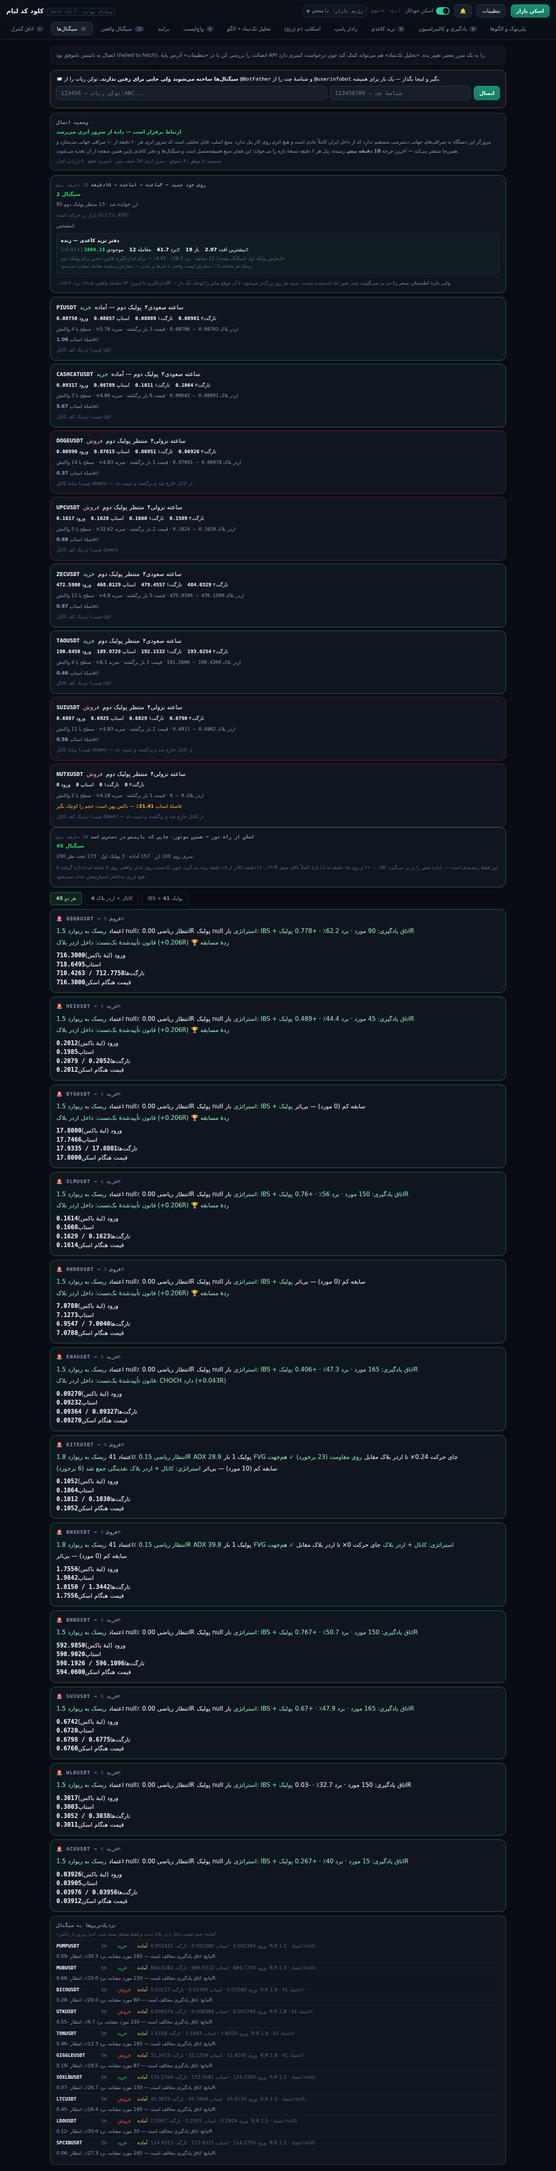
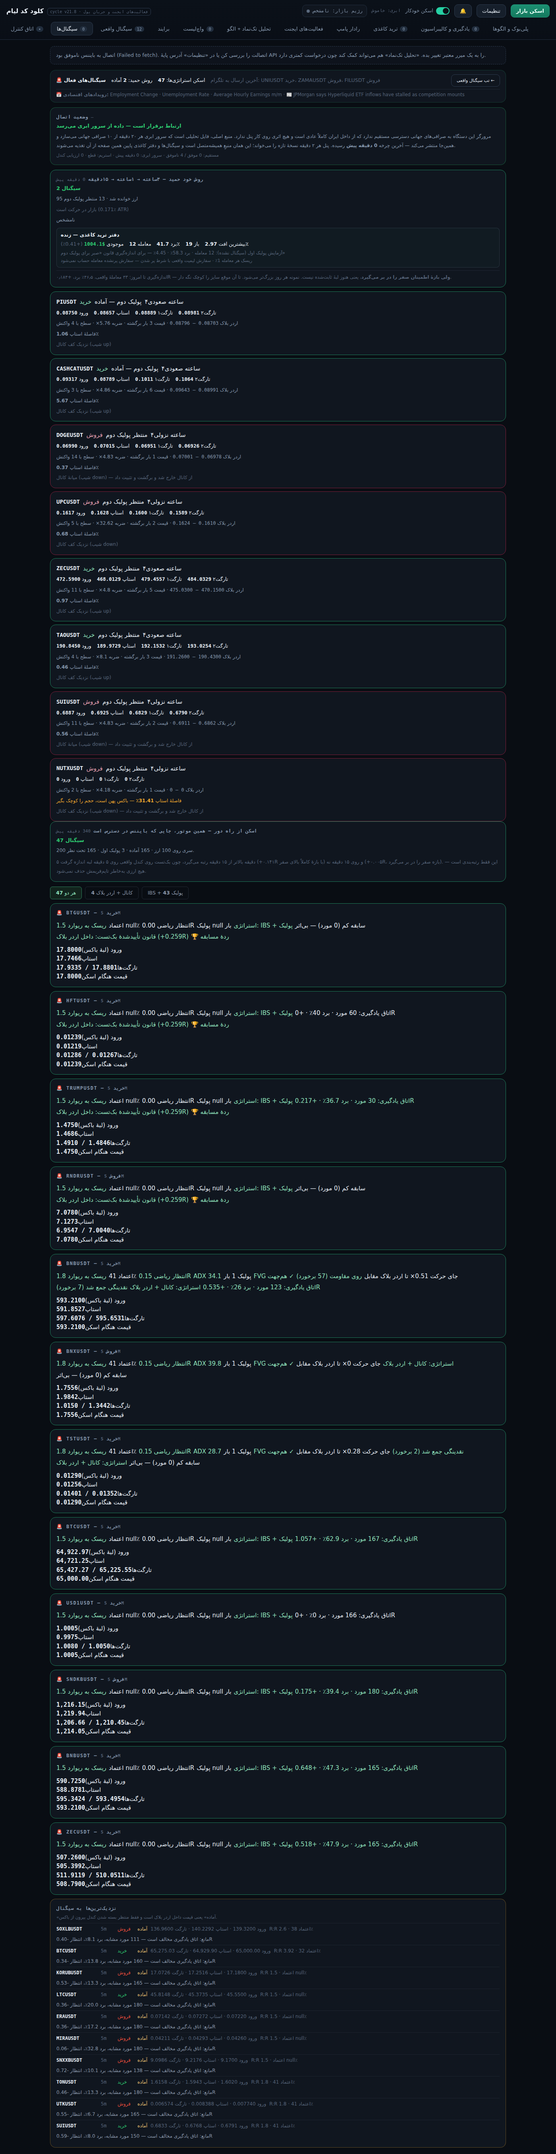
تب فعالیتهای ایجنت، ابزار ورود/خروج پول، تقویم اقتصادی دائمی، حذف فرم توکن
چهار خواستهٔ حمید (v21.8):

- فرم توکن تلگرام از صفحهٔ اول حذف شد — ربات سمت سرور ساخته شده و آن فرم
  فقط جا میگرفت. جایش نوار «سیگنالهای فعال» نشسته: تعداد آماده، آخرین
  ارسالهای تلگرام، و رویدادهای اقتصادی ۴۸ ساعت + داغترین خبر — دائمی.
- تب «اسکلپ ۱م» جایش را به «فعالیتهای ایجنت» داد: چرخهٔ سرور در هر قدم
  یک خط سادهٔ فارسی در activity مینویسد (شروع، خواندن ارزها، ستاپها،
  دفتر کاغذی، تجربهگیری، تلگرام، انتشار) و پنل همان را زنده نشان میدهد.
- ابزار جریان پول: money_flow جهش حجم یکساعته را با z-score نسبت به ۱۰۰
  کندل قبل میگیرد و در گذشتهٔ همان ارز جهشهای مشابهِ همجهت را پیدا و
  میانهٔ حرکت ۴ ساعت بعدشان را اندازه میگیرد — واکنش انتظاری از تاریخچهٔ
  خود ارز، نه حدس؛ زیر ۵ نمونه صریحاً «پیشبینی نمیکنیم». نتیجه به اتاق
  سیگنال (room_log) هم میرود.
- تجربهگیری از گذشتهٔ هر کار همان حلقهٔ یادگیری موجود است؛ حالا در تب
  فعالیتها به زبان ساده دیده میشود.

تست: selfcheck ۱۳/۱۳؛ money_flow واحد (جهش تشخیص، شمارش گذشته، سری آرام
خالی)؛ پنل ۹/۹ با فیکسچر فعال (دو ایراد قبلی مال دادهٔ حالت سکوت بود)؛
تست رندر تب ایجنت و نوار و جریان پول، صفر خطا.

Claude-Session: https://claude.ai/code/session_01Hmz5ep1FQiSRdvnpYTDsuE

diff --git a/index.html b/index.html
@@ -217,7 +217,7 @@ input.f{background:var(--panel2);border:1px solid var(--line2);border-radius:9px
 <body dir="ltr">
 <header>
   <div class="bar">
-    <div class="brand"><b>کلود کد لیام</b><span class="v" id="ver">cycle v21.7 · سیگنال نهایی</span></div>
+    <div class="brand"><b>کلود کد لیام</b><span class="v" id="ver">cycle v21.8 · فعالیتهای ایجنت و جریان پول</span></div>
     <div class="regime" id="regime"><span class="dot"></span><span id="regimeTxt">رژیم بازار: نامشخص</span></div>
     <span class="mono" id="syncPill" style="font-size:11px;color:var(--dim)">ابری: خاموش</span>
     <label class="switch" id="autoSw"><span>اسکن خودکار</span><i></i></label>
@@ -232,7 +232,7 @@ input.f{background:var(--panel2);border:1px solid var(--line2);border-radius:9px
     <button class="tab" data-t="net">برایند</button>
     <button class="tab" data-t="watch">واچلیست<span class="b" id="cWatch">0</span></button>
     <button class="tab" data-t="single">تحلیل تکنماد + الگو</button>
-    <button class="tab" data-t="scalp">اسکلپ ۱م (رنج)</button>
+    <button class="tab" data-t="agent">فعالیتهای ایجنت</button>
     <button class="tab" data-t="radar">رادار پامپ</button>
     <button class="tab" data-t="paper">ترید کاغذی<span class="b" id="cPaper">0</span></button>
     <button class="tab" data-t="calib">یادگیری و کالیبراسیون<span class="b" id="cFb">0</span></button>
@@ -274,18 +274,9 @@ input.f{background:var(--panel2);border:1px solid var(--line2);border-radius:9px
     <div id="ddOut"></div>
   </section>
 
-  <section id="view-scalp" style="display:none">
-    <div class="section-title"><span class="eyebrow">1m reverse-IBS · range scalp</span><h2>اسکلپ ۱ دقیقهای — رنجمارکت</h2></div>
-    <p class="muted" style="margin-top:-6px;max-width:760px;font-size:13.5px">
-      ستاپ: <b>اینداسمنت معتبر (سوییپ لبهٔ رنج) → CHoCH → اولین BOS همجهتِ چرخش</b>، فقط در حالت رنج و روی تکارز.
-      ضدِ سوییپ وارد میشویم و به سمت لبهٔ مقابلِ رنج هدف میگیریم. این پنل کاملاً مستقل از موتورِ قفلشده است.
-    </p>
-    <div style="display:flex;gap:8px;flex-wrap:wrap;align-items:center;margin:12px 0 14px">
-      <input class="f" id="scSym" placeholder="نماد، مثلاً BTC یا SOLUSDT" style="max-width:260px" inputmode="text" autocapitalize="characters">
-      <button class="btn primary" id="scBtn">تحلیل اسکلپ ۱م</button>
-      <span class="dim mono" id="scMeta"></span>
-    </div>
-    <div id="scOut"></div>
+  <section id="view-agent" style="display:none">
+    <div class="section-title"><span class="eyebrow">live agent activity</span><h2>فعالیتهای ایجنت — همین لحظه</h2></div>
+    <div id="agentOut"></div>
   </section>
 
   <section id="view-radar" style="display:none">
@@ -3774,6 +3765,44 @@ function renderNet(){
       `<div class="dim" style="font-size:12px">فهرست قانونها با چرخهٔ بعدی اسکن میرسد</div>`}
   </div>`;
 }
+/* =========================================================================
+   تب «فعالیتهای ایجنت» — قدمبهقدم و به زبان ساده: ایجنت الان دارد چه
+   میکند. منبعش لیست activity است که خود چرخهٔ سرور در هر قدم مینویسد،
+   بهعلاوهٔ کارهای زندهٔ همین مرورگر (اتاق کنترل).
+   ========================================================================= */
+function renderAgent(){
+  const el=$("#agentOut");if(!el)return;
+  const j=HAMID.data||{};
+  const acts=j.activity||[];
+  const flows=j.money_flow||[];
+  const mins=j.generated?Math.round((Date.now()-j.generated)/60000):null;
+  el.innerHTML=`
+  <div class="box" style="margin-bottom:12px">
+    <h3 style="margin:0 0 4px">ایجنت الان چه میکند؟</h3>
+    <div class="muted" style="font-size:12.5px;line-height:1.9">
+      ایجنت روی سرور ابری هر ۲۰ دقیقه یک چرخهٔ کامل میزند: بازار را میخواند، با روش تو
+      ستاپ میسازد، ترید کاغذی میکند، از نتیجهٔ بستهشدهها تجربه میگیرد، و سلامت خودش
+      را چک میکند. این لیست، قدمهای همان چرخه است — آخرین چرخه ${mins==null?"—":mins+" دقیقه پیش"}.</div>
+    ${acts.length?acts.map(a=>`<div style="display:flex;gap:10px;align-items:baseline;padding:5px 0;
+        border-top:1px solid rgba(140,160,190,.10);font-size:12.5px">
+      <span class="dim mono" style="font-size:10.5px;min-width:42px">${a.t?new Date(a.t).toLocaleTimeString("fa-IR",{hour:"2-digit",minute:"2-digit"}):""}</span>
+      <span>⚙ ${a.text}</span></div>`).join(""):
+      `<div class="dim" style="font-size:12px;margin-top:6px">لیست قدمها از چرخهٔ بعدی سرور میرسد</div>`}
+  </div>
+  <div class="box">
+    <h3 style="margin:0 0 4px">💧 ورود و خروج پول — با واکنش گذشتهٔ خود ارز</h3>
+    <div class="dim" style="font-size:11px;margin-bottom:4px">
+      جهش حجم یکساعته نسبت به ۱۰۰ کندل قبل؛ بعد در گذشتهٔ همان ارز، جهشهای مشابه پیدا و
+      حرکت ۴ ساعت بعدشان اندازه گرفته میشود. نمونهٔ کم = بدون پیشبینی، صادقانه.</div>
+    ${flows.length?flows.map(f=>`<div style="display:flex;gap:8px;flex-wrap:wrap;align-items:center;
+        padding:5px 0;border-top:1px solid rgba(140,160,190,.10);font-size:12.5px">
+      <b class="mono" style="min-width:96px">${f.symbol}</b>
+      <span style="color:${f.flow==="ورود"?"#2ecc71":"#e74c3c"}">پول در حال ${f.flow}</span>
+      <span class="chip">شدت z=${f.z}</span>
+      <span class="dim" style="font-size:11.5px">${f.verdict}</span></div>`).join(""):
+      `<div class="dim" style="font-size:12px">در چرخهٔ اخیر جهش حجم معناداری دیده نشد (یا چرخه در حالت سکوت است)</div>`}
+  </div>`;
+}
 function refreshServerTabs(){
   renderWhy();
   const j=RELAY.data;
@@ -3782,6 +3811,7 @@ function refreshServerTabs(){
   const b=$("#cReal");if(b)b.textContent=elite+ready;
   if($("#view-real").style.display!=="none")renderReal();
   if($("#view-net").style.display!=="none")renderNet();
+  const ag=$("#view-agent");if(ag&&ag.style.display!=="none")renderAgent();
 }
 setInterval(refreshServerTabs,5000);
 function diagHTML(){
@@ -4369,40 +4399,34 @@ function tradeClose(tr,r,why){
 }
 
 function renderTgBanner(){
+  /* ربات تلگرام حالا سمت سرور ساخته شده — فرم توکن از صفحهٔ اول حذف شد و
+     جایش دقیقاً همان چیزی نشسته که حمید خواست: سیگنالهای فعالِ همین لحظه،
+     و رویدادهای اقتصادی که باید مواظبشان بود. */
   const el=$("#tgBanner");if(!el)return;
-  if(TG.on()){
-    if(el.dataset.st!=="on"){el.dataset.st="on";
-      el.innerHTML=`<div class="box" style="border-color:#1e7d5a;margin-bottom:12px;padding:10px 14px">
-        <span style="font-size:13px">📨 تلگرام وصل است — هر سیگنال، نتیجهٔ هر معامله و گزارش ۵ دقیقهای برایت فرستاده میشود.</span>
-        <button class="btn ghost" id="tgTest" style="margin-inline-start:10px;font-size:12px">ارسال پیام آزمایشی</button></div>`;
-      const b=$("#tgTest");if(b)b.onclick=async()=>{b.textContent="در حال ارسال…";
-        const ok=await TG.send("🔔 <b>آزمایش</b> — ارتباط پنل با تلگرام برقرار است.");
-        b.textContent=ok?"فرستاده شد ✓":"ناموفق — توکن/شناسه را بررسی کن";};}
-    return;
-  }
-  if(el.dataset.st==="off")return;
-  el.dataset.st="off";
-  el.innerHTML=`<div class="box" style="border-color:#7d5a1e;margin-bottom:12px;padding:12px 14px">
-    <div style="font-size:13px;margin-bottom:8px">📨 <b>سیگنالها ساخته میشوند ولی جایی برای رفتن ندارند.</b>
-      توکن ربات را از <span class="mono">@BotFather</span> و شناسهٔ چت را از <span class="mono">@userinfobot</span> بگیر و اینجا بگذار — یک بار برای همیشه.</div>
-    <div style="display:flex;gap:8px;flex-wrap:wrap">
-      <input class="f" id="tgTok" style="flex:2;min-width:230px" placeholder="توکن ربات — 123456:ABC..." autocapitalize="none">
-      <input class="f" id="tgChat" style="flex:1;min-width:130px" placeholder="شناسهٔ چت — 123456789" inputmode="numeric">
-      <button class="btn primary" id="tgSave">اتصال</button>
+  const tg=((TGLOG.data||{}).sent||[]).slice(0,3);
+  const hj=HAMID.data||{};
+  const ready=(hj.setups||[]).filter(x=>!x.waiting);
+  const rj=RELAY.data||{};
+  const rsig=(rj.signals||[]).length;
+  const cal=((hj.world||{}).calendar)||{};
+  const ev=(cal.next_48h||[]).slice(0,3);
+  const news=(((hj.world||{}).news)||{}).hot||[];
+  el.innerHTML=`<div class="box" style="border-color:#1e7d5a55;margin-bottom:12px;padding:10px 14px">
+    <div style="display:flex;gap:14px;flex-wrap:wrap;align-items:center;font-size:12.5px">
+      <b>🚨 سیگنالهای فعال</b>
+      <span>روش حمید: <b>${ready.length}</b> آماده</span>
+      <span>اسکن استراتژیها: <b>${rsig}</b></span>
+      <span class="dim">آخرین ارسال به تلگرام: ${tg.length?tg.map(t=>`${t.sym} ${t.dir==="LONG"?"خرید":"فروش"}`).join("، "):"—"}</span>
+      <button class="btn ghost" style="font-size:11px;margin-inline-start:auto" onclick="selectTab('real')">تب سیگنال واقعی ←</button>
     </div>
-    <div class="dim" id="tgMsg" style="font-size:12px;margin-top:7px"></div></div>`;
-  const save=$("#tgSave");
-  if(save)save.onclick=async()=>{
-    const t=$("#tgTok").value.trim(),c=$("#tgChat").value.trim(),m=$("#tgMsg");
-    if(!t||!c){m.textContent="هر دو مقدار لازم است.";return;}
-    save.textContent="در حال بررسی…";
-    TG.set(t,c);
-    const ok=await TG.send("✅ <b>پنل به تلگرام وصل شد</b>\nاز این پس هر سیگنال، نتیجهٔ هر معامله و گزارش ۵ دقیقهای اینجا میآید.");
-    if(ok){opslog("sup","تلگرام وصل شد — سیگنالها از این پس ارسال میشوند","sig");saveLocal();if(SYNC.on())SYNC.push();el.dataset.st="";renderTgBanner();}
-    else{TG.set("","");save.textContent="اتصال";m.textContent="نشد. توکن یا شناسهٔ چت درست نیست — یا هنوز به ربات پیام /start ندادهای.";}
-  };
+    <div class="dim" style="font-size:11.5px;margin-top:6px;border-top:1px solid rgba(140,160,190,.12);padding-top:5px">
+      📅 <b>رویدادهای اقتصادی:</b>
+      ${ev.length?ev.map(e=>`${e.title||e.event||e.name||""}${e.time?` (${e.time})`:""}`).join(" · "):
+        `${cal.high_this_week??"—"} رویداد مهم این هفته — در ۴۸ ساعت آینده چیزی نیست`}
+      ${news.length?` · 📰 ${news[0].title.slice(0,80)}`:""}
+    </div></div>`;
 }
-setInterval(renderTgBanner,4000);
+setInterval(renderTgBanner,5000);setTimeout(renderTgBanner,1500);
 function renderTrades(){
   const el=$("#tradeBox");if(el===null||typeof el==="undefined")return;
   const T=STATE.trades||[];
@@ -4581,11 +4605,12 @@ function renderAll(){renderSignals();renderWatch();renderCalib();renderRegime();
    ========================================================================= */
 function selectTab(t){
   $$(".tab").forEach(b=>b.classList.toggle("active",b.dataset.t===t));
-  ["ops","signals","real","net","watch","single","scalp","radar","paper","calib","playbook"].forEach(k=>$("#view-"+k).style.display=k===t?"":"none");
+  ["ops","signals","real","net","watch","single","agent","radar","paper","calib","playbook"].forEach(k=>$("#view-"+k).style.display=k===t?"":"none");
   if(t==="ops")renderOps();
   if(t==="paper")renderReview();
   if(t==="real")renderReal();
   if(t==="net")renderNet();
+  if(t==="agent")renderAgent();
 }
 $("#tabs").addEventListener("click",e=>{const b=e.target.closest(".tab");if(b)selectTab(b.dataset.t);});
 $("#scanBtn").onclick=runScan;

diff --git a/sw.js b/sw.js
@@ -1,7 +1,7 @@
 /* Hamid Signal Agent — service worker
    Caches the app shell so the panel opens instantly (even offline),
    while always going to the network for live market data and the cloud API. */
-const CACHE = "hsa-shell-v21.7";
+const CACHE = "hsa-shell-v21.8";
 const ASSETS = [
   "./",
   "./index.html",

diff --git a/claude-liam-signal/python/hamid/cycle.py b/claude-liam-signal/python/hamid/cycle.py
@@ -58,6 +58,15 @@ DAILY_TARGET = 15
 ROOMS = ["market", "radar", "scan", "deep", "trade", "paper",
          "chart", "watch", "learn", "calib", "intel", "sup"]
 
+# فعالیتهای ایجنت، به زبان ساده — پنل همین لیست را در تب «فعالیتهای ایجنت»
+# لحظهبهلحظه نشان میدهد تا حمید ببیند الان دقیقاً چه کاری در جریان است.
+ACTIVITY = []
+
+
+def act(text):
+    ACTIVITY.append({"t": int(time.time() * 1000), "text": text})
+    print(f"⚙ {text}", flush=True)
+
 
 # ── the day's budget ───────────────────────────────────────────────────────
 
@@ -180,7 +189,52 @@ def run_active(symbols, limit_4h=200, limit_1h=300, limit_15m=300):
             setups.append((sym, r))
         brain.room_log("scan", f"{sym}: ۴ساعته {r.trend_4h}، "
                                f"{len(r.blocks)} بلاک، ستاپ {'دارد' if r.setup else 'ندارد'}", "read")
-    return first, reads, setups
+    flows = money_flow(fetched)
+    return first, reads, setups, flows
+
+
+def money_flow(fetched, z_gate=2.0, look=4):
+    """ورود/خروج پول، با نگاهی به گذشتهٔ خود ارز — نه حدس.
+
+    حجم آخرین کندل بستهٔ یکساعته نسبت به میانگین/انحراف صد کندل قبل سنجیده
+    میشود؛ جهش یعنی z بالای آستانه. بعد در تاریخچهٔ همان ارز، جهشهای مشابهِ
+    همجهت پیدا و بازدهٔ چهار ساعت بعدشان اندازه گرفته میشود — «واکنش
+    انتظاری» میانهٔ همان اندازهگیری است، با تعداد نمونه کنارش، که معلوم باشد
+    حرف از چند مشاهده میآید. نمونهٔ کمتر از پنج، بدون پیشبینی گزارش میشود."""
+    out = []
+    for sym, (c1h, _) in fetched.items():
+        if len(c1h) < 120:
+            continue
+        vols = [k["v"] for k in c1h[:-1]]            # کندل باز حساب نیست
+        base = vols[-101:-1]
+        mean = sum(base) / len(base)
+        var = sum((v - mean) ** 2 for v in base) / len(base)
+        sd = var ** 0.5 or 1e-12
+        last = c1h[-2]
+        z = (last["v"] - mean) / sd
+        if z < z_gate:
+            continue
+        inflow = last["c"] >= last["o"]
+        # جهشهای مشابهِ گذشته در همین سری
+        rets = []
+        for i in range(100, len(c1h) - look - 1):
+            k = c1h[i]
+            b = [x["v"] for x in c1h[max(0, i - 100):i]]
+            m = sum(b) / len(b)
+            s = (sum((v - m) ** 2 for v in b) / len(b)) ** 0.5 or 1e-12
+            if (k["v"] - m) / s >= z_gate and (k["c"] >= k["o"]) == inflow:
+                rets.append((c1h[i + look]["c"] - k["c"]) / k["c"] * 100)
+        rets.sort()
+        n = len(rets)
+        med = rets[n // 2] if n else None
+        out.append({"symbol": sym, "z": round(z, 1),
+                    "flow": "ورود" if inflow else "خروج",
+                    "past_n": n,
+                    "past_median_pct": round(med, 2) if med is not None else None,
+                    "verdict": ("نمونهٔ گذشته کم است — پیشبینی نمیکنیم" if n < 5 else
+                                f"در {n} جهش مشابه، میانهٔ حرکت {look} ساعت بعد {med:+.2f}٪ بود")})
+    out.sort(key=lambda x: -x["z"])
+    return out[:8]
 
 
 def resample(cd, k):
@@ -309,6 +363,8 @@ def main():
         print(f"بیتکوین در دسترس نبود: {e}")
         btc15 = []
     mode, why = regime(btc15) if a.mode == "auto" else (a.mode, "دستی انتخاب شد")
+    ACTIVITY.clear()
+    act(f"شروع چرخه در حالت {'فعال' if mode == 'active' else 'سکوت'} — {why}")
     print(f"حالت: {mode} — {why}")
     brain.event("cycle", mode=mode, why=why, pacing=pace)
 
@@ -327,9 +383,18 @@ def main():
         except Exception as e:                       # noqa: BLE001
             print(f"لیست ارزها نیامد: {e}")
             syms = ["BTCUSDT", "ETHUSDT", "SOLUSDT"]
-        first, reads, setups = run_active(syms)
+        act(f"در حال خواندن {len(syms)} ارز برتر از صرافیهای جهانی")
+        first, reads, setups, flows = run_active(syms)
         report["market"] = first
         report["reads"] = len(reads)
+        report["money_flow"] = flows
+        act(f"{len(reads)} ارز خوانده شد؛ {len(setups)} ارز ساختار اردر بلاک دارند")
+        if flows:
+            act(f"جهش حجم در {len(flows)} ارز دیده شد — واکنش گذشتهٔ هرکدام اندازه گرفته شد")
+        # تاریخچهٔ همان ارزها فوری در اختیار اتاق سیگنال و ریسک
+        for f in flows:
+            brain.room_log("scan", f"پول در حال {f['flow']} به {f['symbol']} "
+                                   f"(z={f['z']}) — {f['verdict']}", "flow")
         rows = [{"symbol": s, **r.setup, "trend_4h": r.trend_4h,
                  "channel": r.channel_note} for s, r in setups]
         ready = [x for x in rows if not x.get("waiting")]
@@ -405,6 +470,7 @@ def main():
               f"{take} سیگنال فرستاده شد"
               + (f"، {held} تای دیگر نگه داشته شد (سهمیهٔ روز)" if held else ""))
     else:
+        act("بازار آرام است — بهجای اسکن کامل، تقویم اقتصادی و نامزدهای پامپ بررسی میشوند")
         report.update(run_quiet())
 
     # Paper book. Every signal is placed as a limit order and tracked to its
@@ -438,6 +504,9 @@ def main():
         eq = paper._equity()
         report["paper"] = {"opened": opened, "open": still, "closed_now": closed,
                            **eq}
+        act(f"دفتر کاغذی: {opened} سفارش تازه گذاشته شد، {closed} معامله بسته شد، "
+            f"{still} سفارش هنوز باز است")
+        act("تجربهگیری: نتیجهٔ معاملههای بسته با شرایط لحظهٔ بازشدنشان به حافظهٔ یادگیری رفت")
         print(f"دفتر کاغذی: {opened} سفارش جدید، {still} باز، {closed} بسته — "
               f"${eq['balance']} ({eq['return_pct']:+.2f}٪) از {eq['trades']} معامله")
         # Reasons are only recomputed when there is enough to say anything; the
@@ -455,6 +524,8 @@ def main():
                 [_for_telegram(x) for x in report["setups"] if not x.get("waiting")],
                 lambda setup, path: None)          # text only; charts need candles
             report["telegram"] = sent
+            if sent:
+                act(f"{sent} سیگنال با چارت به تلگرام فرستاده شد")
         except Exception as e:                     # noqa: BLE001 - delivery is not the analysis
             print(f"تلگرام: {type(e).__name__}: {e}")
 
@@ -492,6 +563,8 @@ def main():
         print(f"دیدهبان اجرا نشد: {type(e).__name__}: {e}")
 
     st["modes"][mode] = st["modes"].get(mode, 0) + 1
+    act("چرخه تمام شد — نتیجه روی پنل منتشر میشود")
+    report["activity"] = ACTIVITY[-25:]
     if not a.dry:
         _save_state(st)
         OUT.mkdir(parents=True, exist_ok=True)
